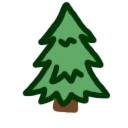
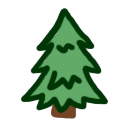
Levels plan: level-up pop-up and Next level card; centre the badge drawings
Claude-Session: https://claude.ai/code/session_01AKYuNggPa5w9iRuLumobCr

Changed region(s): [[0.1562, 0.0, 0.875, 0.9375]]

diff --git a/docs/plans/levels.md b/docs/plans/levels.md
@@ -111,6 +111,26 @@ Physical drops or giveaways bring real-world rules that digital items don't:
   - `biome-assets/level-evergreen.png` (the tree; the pine branch could become an Evergreen shelf decoration)
 - **Level colours** (borders and name text): Seed warm brown, Sprout light green, Sapling green, Bloom pink, Evergreen teal with gold.
 
+## Level-up pop-up (agreed design)
+- **When it appears:** the next time the member visits after levelling up. It uses the same pop-up style as achievements, and shows once per account (like achievement pop-ups).
+- **What it shows:** "Level up!", the member's new badge drawing large in a glowing cream circle (gold rim for Evergreen), a heading, a short thank-you, an "Unlocked" list, and the buttons "See my profile" and "Lovely!".
+- **Wording:**
+  - Sapling: "You've grown into a Sapling!" / "25 contributions to Byome: reviews, posts people loved and product suggestions. Thank you for helping our community grow."
+  - Evergreen: "You're an Evergreen!" / "The highest level on Byome. Thoughtful, trusted, and an important part of the Byome community." (owner's wording)
+  - Sprout and Bloom follow the same pattern.
+- **Sprout's pop-up** lists "your Sprout badge" until photos exist, then adds photo uploads.
+
+## "Next level" card (agreed design)
+- **On your own profile only** ("Only you can see this"), under the profile header.
+- **Sprout → Sapling:** a contributions bar ("18 of 25"), a breakdown (reviews, posts others enjoyed, approved product suggestions), and the note "Posts count once someone else likes, comments or votes on them."
+- **Sapling → Bloom:** a review bar ("64 of 100"), and the note that moderators take a look at 100.
+- **Waiting for the Bloom check:** "Your reviews are being looked at by our team. You'll get a notification as soon as you bloom!"
+- **Bloom → Evergreen:** a checklist, with progress bars for standouts and time as a member, and a tick for goals already met (for example "63 (goal: 50)").
+- **Evergreen:** no card; they've reached the top.
+
+## Badge art note
+The five drawings were centred on their 128 × 128 canvases (spacing only; the drawings themselves are unchanged), so they sit in the middle of their circles.
+
 ## Still to design before building
-- The level-up pop-up, and where progress shows (for example "12 of 25 contributions to Sapling" on your own profile).
+- Level-up gifts (in progress).
 - Which levels get the first exclusive drops and Community space.
